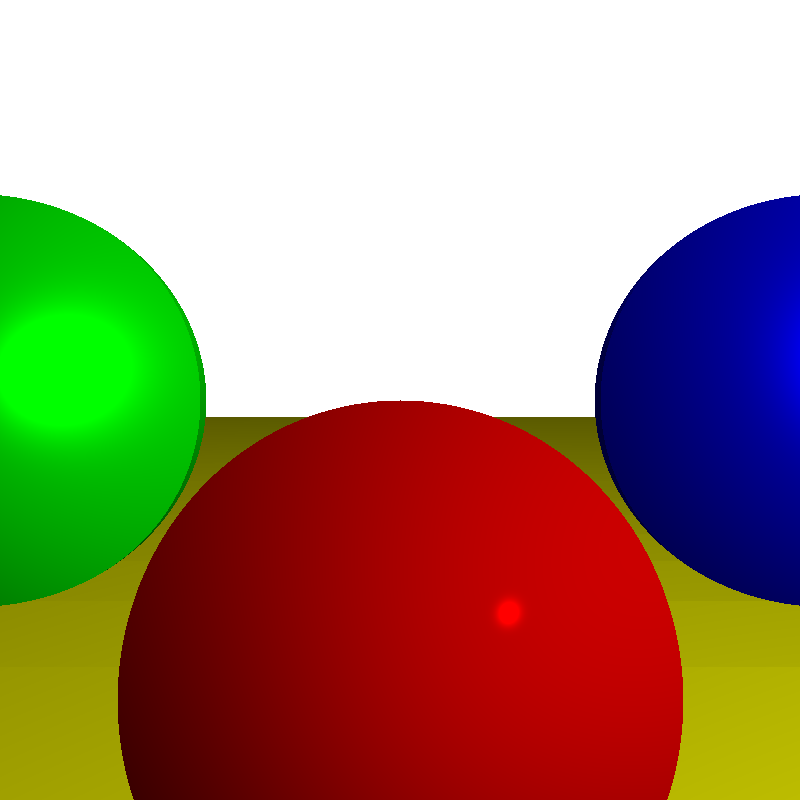
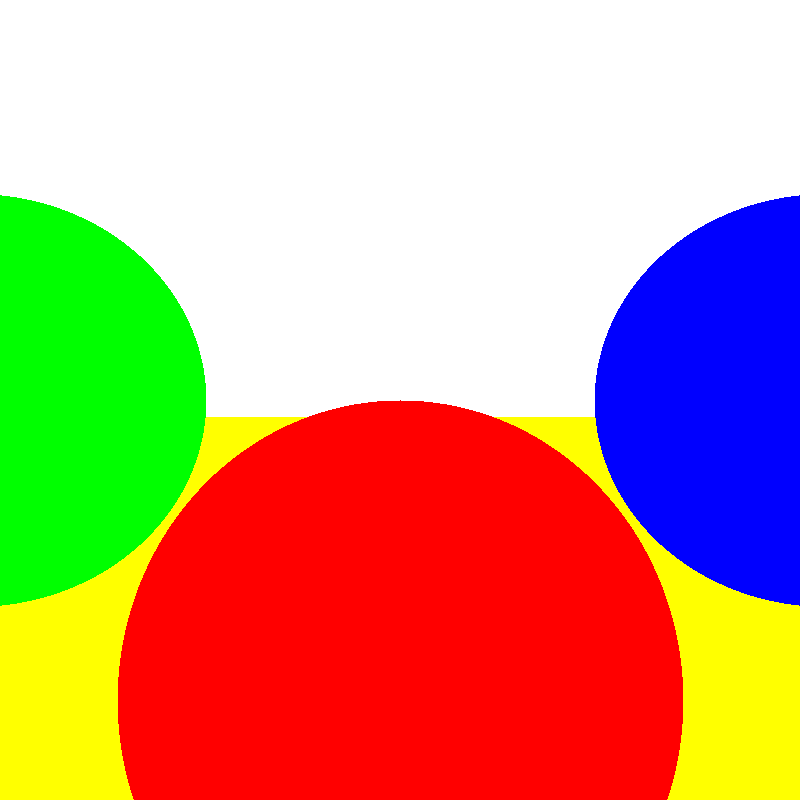
Basic raytracing 01

diff --git a/main.c b/main.c
@@ -8,6 +8,7 @@
 #define VIEWPORT_HEIGHT 1.0
 #define CAMERA_VIEWPORT_DISTANCE 1.0
 #define FPS 60
+#define BASIC_TRACE 1
 
 const int T_MAX = INT_MAX;
 Vec3 ORIGIN = (Vec3){0.0, 0.0, 0.0};
@@ -136,6 +137,10 @@ Color3 traceRay(Vec3 *origin, Vec3 *rayDir, float tMin, float tMax, scene_t *sce
     if (closestSphere == NULL) {
         return BACKGROUND_COLOR;
     }
+
+    #ifdef BASIC_TRACE
+    return closestSphere->color;
+    #endif
 
     Vec3 tTimesDir = constant_multiply(rayDir, closestT);
     Vec3 point = add(origin, &tTimesDir);
